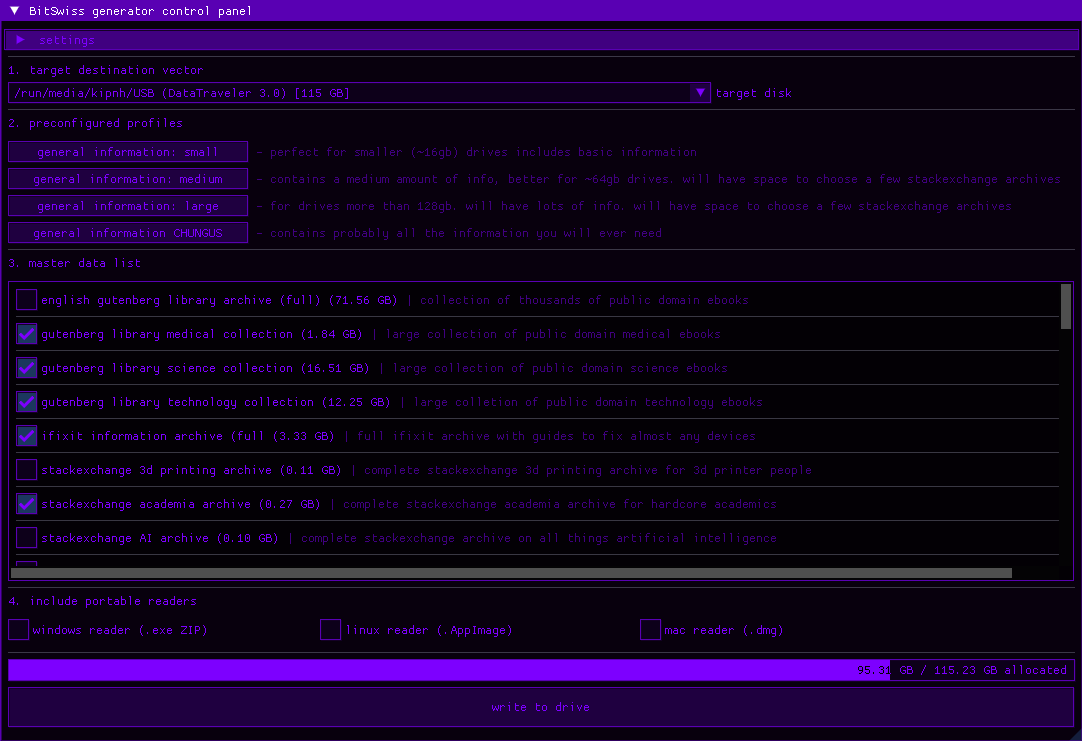
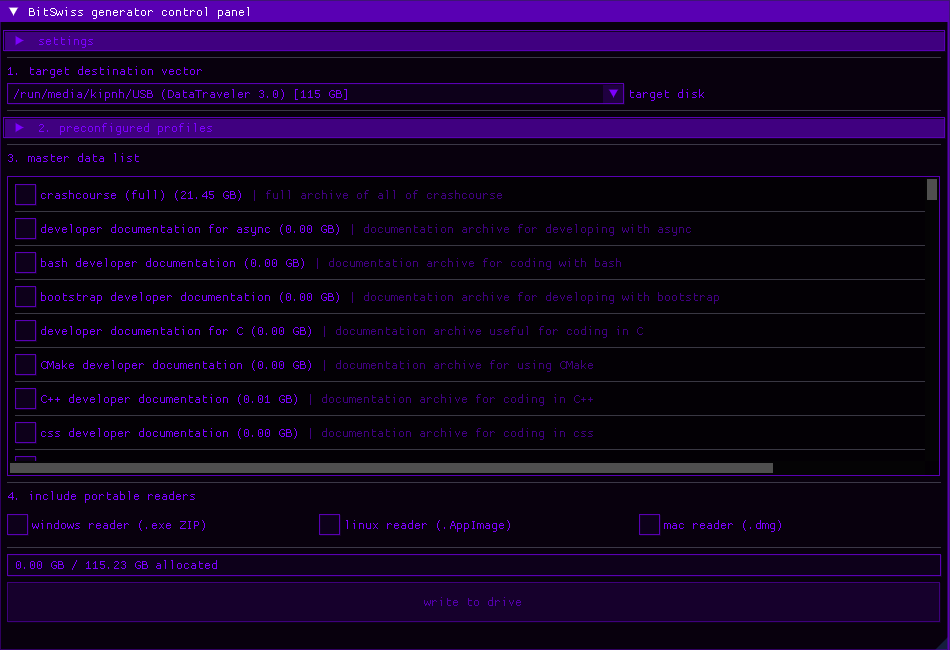
readme upgrade

Changed region(s): [[0.0, 0.0, 1.0, 1.0]]

diff --git a/README.md b/README.md
@@ -79,19 +79,30 @@ the application decouples data definitions from user configuration management to
 
 ## contents and datasets
 
-the program currently coordinates a comprehensive knowledge and information ledger across multiple domains:
+the program currently coordinates a comprehensive (over 600gb) knowledge and information ledger across multiple domains:
 
 the data includes but is not limited to:
 * **the Wikipedia spectrum:** features three distinct fully searchable file sizes (full with pictures, text only, headers and introductions only) containing every Wikipedia entry.
 * **the stackexchange matrix:** integrates the entirety of Stack Overflow alongside niche engineering, technology, science, math, literature, art, and more sister forums.
 * **massive public domain literature packages:** houses the entirety of Project Gutenberg which includes many texts from the Library of Congress, and thousands of other public domain ebooks. users can choose from the entire collection  or from specific collections.
 * **practical hardware and repair:** features the entire comprehensive iFixit repair database that can be used to repair and understand thousands of different devices.
+* **documentation:** included is the whole devdocs archive, featuring fully detailed archives for many scripting languages, libraries, workflows, and more.
+* **textboooks and educational materials:** included in the list of available packages is the entire libretext archive, with many categories and thousands of different books and texts.
+* **medical information libraries:** houses the entire medlineplus library (made by the NIH), which contains a massive amount of health and first aid information.
+* **all of wiktionary:** a dictionary containing over 1,000,000 entries in almost every language known to man
+* **educational courses:** this list has more than just educational texts, with khanacademy, freecodecamp, and crashcourse, it also has fully working step by step courses.
+* **NASA's astronomy picture of the day** view all of NASA's astronomy pictures of the day from 1995 to the present, with expert-written explanations!
 
 there are also multiple preconfigured datasets including:
-* **small storage tailored set:** includes only the most necessary information including wikipedia headers, can fit on a 16gb drive.
-* **medium storage tailored set:** includes all of wikipedia (without pictures), all of iFixit, and more. fits on a 64gb drive.
-* **large storage tailored set:** includes all of wikipedia (without pictures), iFixit, Gutenberg medical, technological and science collections, and a handful of stackexchange archives.
-* **CHUNGUS data set:** includes every single distinct package. very large.
+* **16gb tailored set:** includes only the most necessary information including wikipedia headers, can fit on a 16gb drive.
+* **32gb tailored set:** includes slightly more information, without too much bloat to fit on your average thumb drive
+* **64gb tailored set:** includes all of wikipedia and wiktionary (without pictures), all of iFixit, freecodecamp, multiple devdocs, and more. fits on a 64gb drive.
+* **128gb tailored set:** includes all of wikipedia and wiktionary (without pictures), iFixit, medlineplus, every libretexts collection, medlineplus, crashcourse, nasa apod, and a handful of stackexchange archives.
+* **CHUNGUS data set:** includes every single package. very large (over 600gb!!!).
+* **coding and software engineering set:** contains almost everything you need to learn to code and lookup documentation fully offline
+* **computer science and graphics set:** nearly every single devdoc package and other computer science package
+* **scholarly data set:** for the people who want to get really smart, containing all of the gutenberg library, every libretexts sector, crashcourse, wikipedia, it truly feels like you could get multiple doctorates from this one.
+* **the stargazer data set:** contains all things space, along with wikipedia. for if you really like stars (or work at NASA)
 
 ---
 
@@ -133,6 +144,25 @@ cmake --build .
 ```bash
 ./bitswiss
 ```
+
+---
+
+## gallery
+
+windows 95 (dark):
+![win95 dark demo](/assets/images/dark_demo.png)
+
+windows 95 (classic):
+![win95 light demo](/assets/images/light_demo.png)
+
+terminal green:
+![terminal green](/assets/images/green_demo.png)
+
+terminal purple:
+![terminal purple](/assets/images/purple_demo.png)
+
+modern dark:
+![modern dark](/assets/images/modern_demo.png)
 
 ---
 